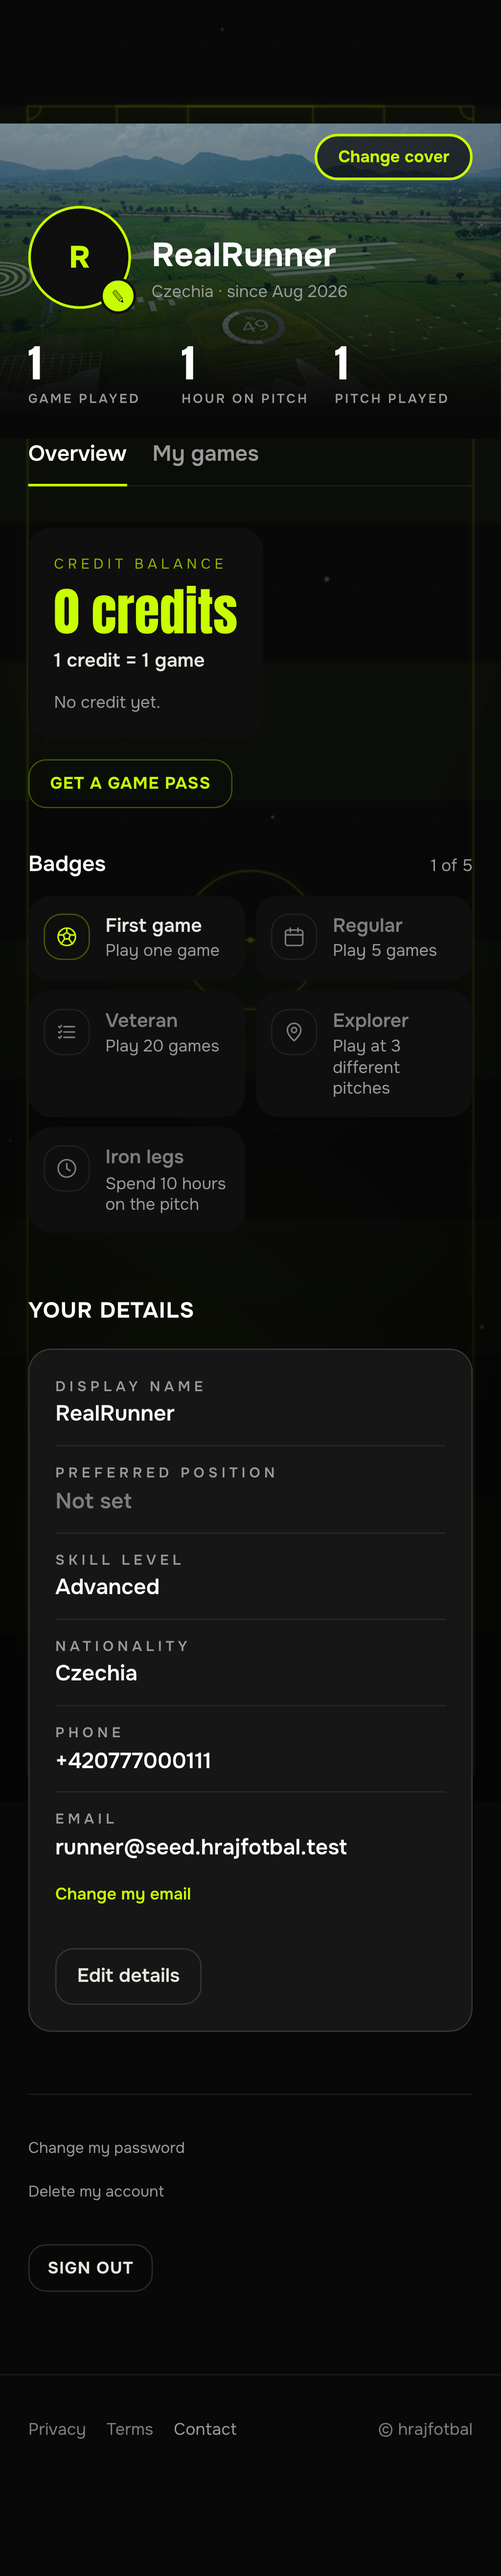
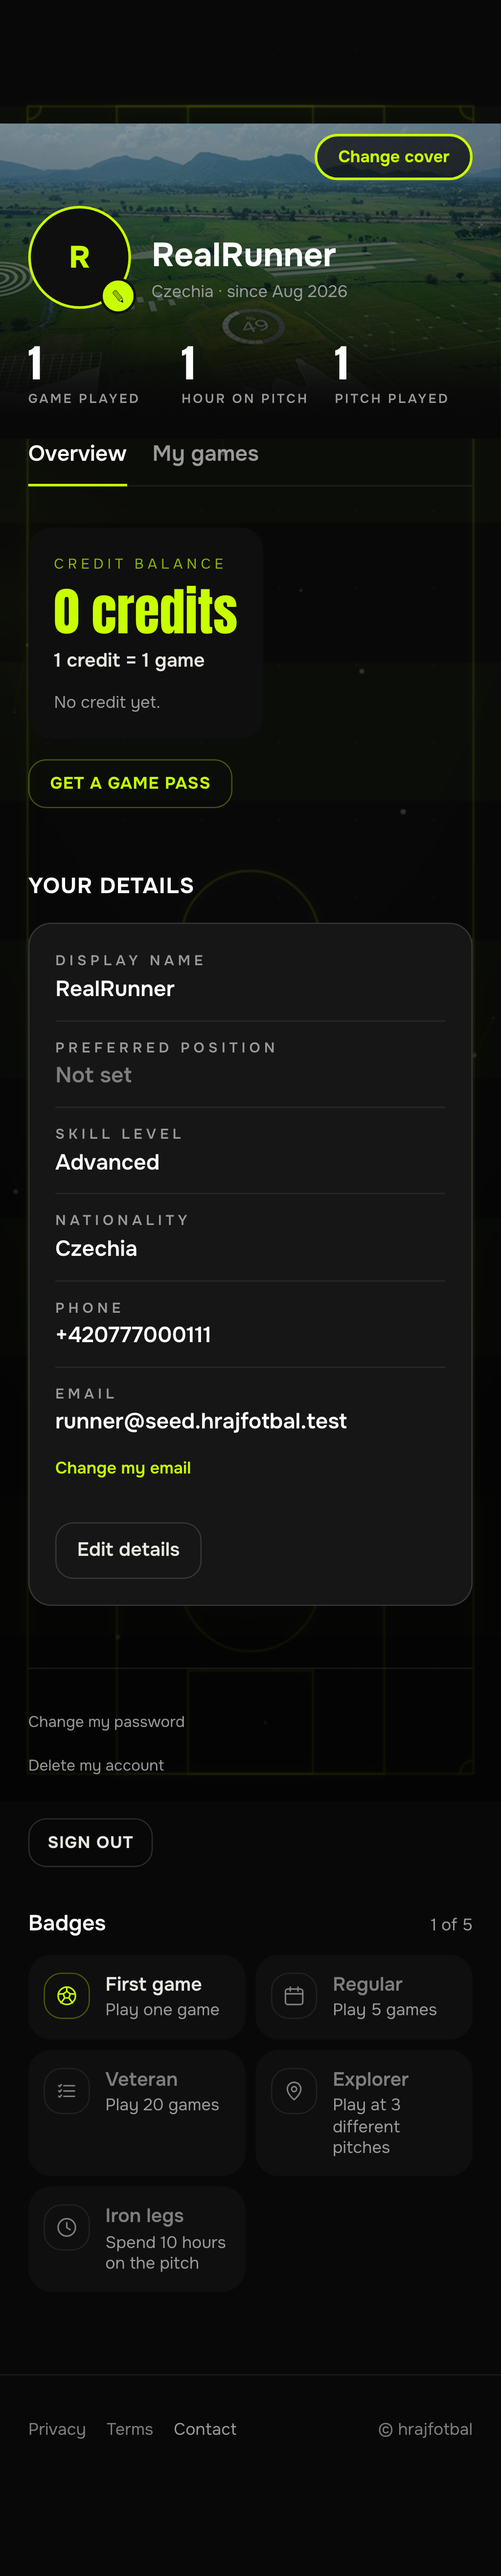
Round 17 item 3: details above, badges at the bottom
The owner's ordering is the better one and the reason is what the page
is FOR. Somebody opens their profile to check or fix a fact about
themselves — a phone number, a position, an email — and under round
16's order that meant scrolling past five badge tiles, four of which
are things they have not done yet. Badges are the reward for using the
product, not the reason to open this screen.

"THE BOTTOM" HAD TO MEAN BELOW THE ACCOUNT ACTIONS TOO. Change
password, delete account and sign out belong with the details they act
on; slotting badges between the two would have separated a block from
its own controls to satisfy the letter of the instruction. The page now
runs wallet -> who you are -> what you can do about it -> what you have
earned, which is descending order of why anybody opened it.

The spec asserts an ORDER, by measured offset. Every one of these
blocks rendered before this change and every one renders after it, so a
test that checked they were present would have passed against both and
proved nothing.

diff --git a/app/account/page.tsx b/app/account/page.tsx
@@ -211,8 +211,6 @@ export default async function AccountPage({
             </Link>
           </div>
 
-          <BadgeGrid badges={badges} t={t} />
-
           {/*
             EVERYTHING THAT WAS UNDER "Settings" (round 16, item 14).
 
@@ -223,11 +221,18 @@ export default async function AccountPage({
             tabs for one screen's worth of content is a tab bar earning its
             keep on the strength of the tab bar.
 
-            THE ORDER IS LOOK, THEN CHANGE. The wallet, the badges and the
+            ~~THE ORDER IS LOOK, THEN CHANGE. The wallet, the badges and the
             admin door are what a player reads; the edit fields and the account
-            actions are what they act on, and they come after. Nothing about
-            either block changed — this is a move, not a redesign, which is why
-            the section comments below still read as they did.
+            actions are what they act on, and they come after.~~
+            
+            THE OWNER SWAPPED IT (round 17, item 3): details above, badges at
+            the bottom. His ordering is the better one and the reason is what
+            the page is FOR. Somebody opens their profile to check or fix a
+            fact about themselves — a phone number, a position, an email — and
+            under the old order that meant scrolling past five badge tiles,
+            four of which are things they have not done yet. Badges are the
+            reward for using the product, not the reason to open this screen,
+            so they sit where a reward sits: at the end.
           */}
           {/*
             THE PROFILE BLOCK (ruling L, §3 screen 7) — display and edit. It is
@@ -260,6 +265,7 @@ export default async function AccountPage({
               countries={countryOptions(locale)}
             />
           </div>
+
 
           {/*
             THREE LINKS, ONE STACK, ALL THE SAME WEIGHT (§3.3, REQ-AUTH-020).
@@ -310,6 +316,21 @@ export default async function AccountPage({
               </button>
             </form>
           </section>
+
+          {/*
+            BADGES LAST — genuinely last (round 17, item 3).
+
+            The owner asked for details above and badges at the bottom, and
+            "the bottom" has to mean below the account actions too: change
+            password, delete account and sign out belong WITH the details they
+            act on, so slotting badges between the two would separate a block
+            from its own controls to satisfy the letter of the instruction.
+
+            It also reads better. The page now runs wallet -> who you are ->
+            what you can do about it -> what you have earned, which is
+            descending order of why somebody opened it.
+          */}
+          <BadgeGrid badges={badges} t={t} />
         </>
       )}
 

diff --git a/e2e/profile.spec.ts b/e2e/profile.spec.ts
@@ -306,3 +306,43 @@ test("the profile form reports an invalid nickname inline", async ({ page, conte
   await expect(page.locator("#nickname-error")).toBeVisible();
   await expect(page.locator("#nickname")).toHaveAttribute("aria-invalid", "true");
 });
+
+
+/**
+ * ROUND 17 ITEM 3 — the order of the overview's sections.
+ *
+ * ASSERTED AS AN ORDER, not as presence. Every one of these blocks rendered
+ * before this item and every one renders after it; the only thing that changed
+ * is the sequence, so a test that checked they were all there would have
+ * passed against both and proved nothing.
+ *
+ * WHY THIS ORDER. Somebody opens their profile to check or fix a fact about
+ * themselves — a phone number, a position, an email. Under the previous order
+ * that meant scrolling past five badge tiles, four of which are things they
+ * have not done yet. The page now runs wallet -> who you are -> what you can
+ * do about it -> what you have earned, which is descending order of why
+ * anybody opened it.
+ */
+test("the overview runs wallet, details, account actions, badges", async ({
+  page,
+  context,
+}) => {
+  await signInAs(context, players.runner);
+  await page.goto("/account", { waitUntil: "networkidle" });
+
+  const order = await page.evaluate(() => {
+    const marks: [string, Element | null][] = [
+      ["wallet", document.querySelector('[data-testid="credit-balance"]')],
+      ["details", document.querySelector('[data-testid="profile-details"]')],
+      ["security", document.querySelector('[data-testid="account-security"]')],
+      ["badges", document.querySelector('[data-testid="badge-grid"]')],
+    ];
+    return marks
+      .filter(([, el]) => el !== null)
+      .map(([name, el]) => ({ name, top: el!.getBoundingClientRect().top + window.scrollY }))
+      .sort((a, b) => a.top - b.top)
+      .map((m) => m.name);
+  });
+
+  expect(order).toEqual(["wallet", "details", "security", "badges"]);
+});
